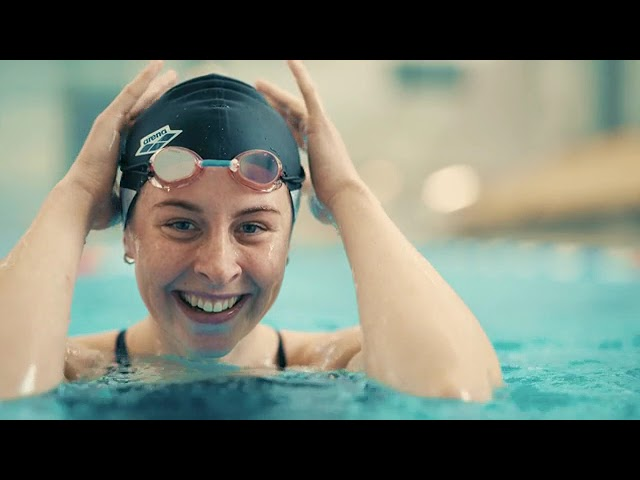
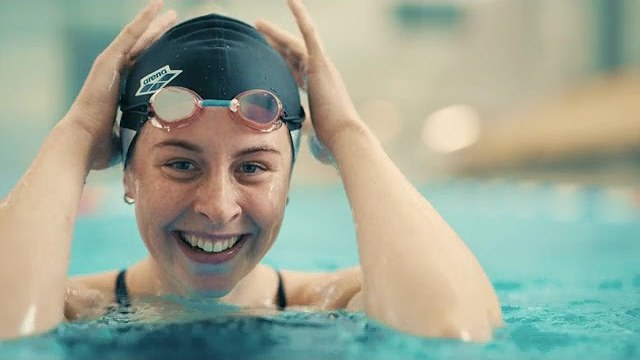
Filmrutan utfallande, biltvättsmeningen borttagen

diff --git a/about/index.html b/about/index.html
@@ -45,7 +45,7 @@
   <div class="prose"><p><strong>Daniel Olsén. Photographer and videographer based in Stockholm.</strong></p>
 <p>I have worked as a photographer since 2009, shooting fashion, advertising campaigns and editorials for brands, agencies and magazines. I shoot both stills and film, and I do my own retouch, editing and colour grading. I am based in Stockholm and work wherever the job is. Recent campaigns have been shot in Stockholm, Skåne and Cape Town.</p>
 <p>I am also creative director at the advertising agency <a href="https://www.shinyhappypeople.se">Shiny Happy People</a> in Stockholm.</p>
-<p>Been doing this for quite a while now. And still loving it more than melted cheese. And that's saying a lot! Me, and my team, can take care of everything from location scouting and model booking to retouch and editing. Hell yea, I can even wash your car if you need me to. So stay in touch!</p>
+<p>Been doing this for quite a while now. And still loving it more than melted cheese. And that's saying a lot! Me, and my team, can take care of everything from location scouting and model booking to retouch and editing. So stay in touch!</p>
 <h2>Clients</h2>
 <p><a href="/danielolsen-se/projects/preem-ice-cream-campaign/">Preem</a> / <a href="/danielolsen-se/projects/kia-ev6/">KIA</a> / <a href="/danielolsen-se/projects/telia-ce-nest-pas-telia/">Telia</a> / <a href="/danielolsen-se/projects/telia-x-apple/">Apple</a> / <a href="/danielolsen-se/projects/bookbeat/">Bookbeat</a> / Åhléns / Alline Agency / Mando Diao / Indiska / <a href="/danielolsen-se/projects/ka-yo/">Ka-Yo</a> / Electrolux / Ryds Bilglas / Presskontakterna / <a href="/danielolsen-se/projects/fujifilm-gfx100-rf/">FUJIFILM</a> / Åkestam Holst / Marie Serneholt / Carolina Gynning / And many many more.</p>
 <h2>Editorials</h2>

diff --git a/sv/om/index.html b/sv/om/index.html
@@ -45,7 +45,7 @@
   <div class="prose"><p><strong>Daniel Olsén. Fotograf och filmare i Stockholm.</strong></p>
 <p>Jag har jobbat som fotograf sedan 2009 och fotar mode, reklamkampanjer och reportage för varumärken, byråer och tidningar. Jag gör både stillbild och film, och sköter retusch, klipp och färgkorrigering själv. Jag utgår från Stockholm och jobbar där uppdraget finns. De senaste kampanjerna är fotade i Stockholm, Skåne och Kapstaden.</p>
 <p>Jag är också creative director på reklambyrån <a href="https://www.shinyhappypeople.se">Shiny Happy People</a> i Stockholm.</p>
-<p>Har hållit på med det här ett bra tag nu. Och älskar det fortfarande mer än smält ost. Och det säger en del! Jag och mitt team kan ta hand om allt från platsletande och modellbokning till retusch och klipp. Jag kan till och med tvätta din bil om det behövs. Så hör av dig!</p>
+<p>Har hållit på med det här ett bra tag nu. Och älskar det fortfarande mer än smält ost. Och det säger en del! Jag och mitt team kan ta hand om allt från platsletande och modellbokning till retusch och klipp. Så hör av dig!</p>
 <h2>Kunder</h2>
 <p><a href="/danielolsen-se/sv/projekt/preem-ice-cream-campaign/">Preem</a> / <a href="/danielolsen-se/sv/projekt/kia-ev6/">KIA</a> / <a href="/danielolsen-se/sv/projekt/telia-ce-nest-pas-telia/">Telia</a> / <a href="/danielolsen-se/sv/projekt/telia-x-apple/">Apple</a> / <a href="/danielolsen-se/sv/projekt/bookbeat/">Bookbeat</a> / Åhléns / Alline Agency / Mando Diao / Indiska / <a href="/danielolsen-se/sv/projekt/ka-yo/">Ka-Yo</a> / Electrolux / Ryds Bilglas / Presskontakterna / <a href="/danielolsen-se/sv/projekt/fujifilm-gfx100-rf/">FUJIFILM</a> / Åkestam Holst / Marie Serneholt / Carolina Gynning / Och många, många fler.</p>
 <h2>Tidningar</h2>
